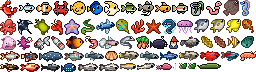
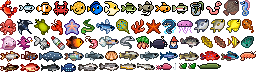
Turn upside-down fish sprites upright
The diagonal Moranovo icons face up-left, so rotating them to face right
left 15 species belly-up. Flip them back after the rotation, and mirror
Red-cap Oranda so it swims head first like the rest.

Claude-Session: https://claude.ai/code/session_0139brXZk66GQKn6vRGacqra

diff --git a/js/atlas.js b/js/atlas.js
@@ -2,5 +2,5 @@
 // The PNG is embedded so the game also runs from file:// without a tainted canvas.
 (function (root) { const A = {"redcrab":[0,0,18,18],"anchovy":[19,0,16,16],"clownfish":[36,0,16,16],"crab":[53,0,16,16],"pufferfish":[70,0,16,16],"surgeonfish":[87,0,16,16],"angelfish":[104,0,16,16],"bass":[121,0,16,16],"catfish":[138,0,16,16],"goldfish":[155,0,16,16],"rainbow_trout":[172,0,16,16],"rusty_can":[189,0,16,16],"worm":[206,0,16,16],"mo_turbot":[223,0,16,16],"mo_seahorse":[240,0,10,16],"mo_octopus":[0,19,16,16],"mo_manta":[17,19,16,16],"mo_turtle":[34,19,16,16],"mo_lobster":[51,19,12,16],"mo_vstar":[64,19,16,16],"mo_snake":[81,19,14,16],"mo_flying":[96,19,19,15],"mo_stingray":[116,19,14,15],"mo_coral":[131,19,14,15],"mo_rstar":[146,19,15,15],"mo_eeel":[162,19,14,15],"jellyfish":[177,19,16,15],"mo_pomfret":[194,19,15,14],"mo_gpomfret":[210,19,15,14],"mo_ytang":[226,19,15,14],"mo_ray":[242,19,12,14],"mo_blob":[0,36,16,14],"mo_angler":[17,36,16,14],"mo_oranda":[34,36,16,14],"mo_bottle":[51,36,14,14],"koi":[66,36,18,13],"mo_prawn":[85,36,13,13],"mo_guppy":[99,36,20,13],"mo_hairtail":[120,36,15,13],"mo_hermit":[136,36,13,13],"angler":[150,36,18,13],"gnome":[169,36,10,13],"mo_tilapia":[180,36,20,12],"mo_cucumber":[201,36,12,12],"mo_bcucumber":[214,36,12,12],"mo_batfish":[227,36,13,12],"mo_abalone":[241,36,13,12],"whitefish":[0,51,20,11],"mo_sunfish":[21,51,17,11],"coelacanth":[39,51,24,11],"rainbowfish":[64,51,20,10],"sardine":[85,51,19,10],"scallop":[105,51,13,10],"striped":[119,51,20,10],"mo_stickleback":[140,51,19,10],"mo_tuna":[160,51,18,10],"mo_cod":[179,51,20,10],"mo_grouper":[200,51,20,10],"mo_tetra":[221,51,18,10],"shrimp":[240,51,16,10],"mo_minnow":[0,63,19,9],"mo_snapper":[20,63,20,9],"mo_mackerel":[41,63,19,9],"lanternfish":[61,63,16,9],"silverfish":[78,63,20,8],"mo_salmon":[99,63,20,8],"mo_croaker":[120,63,16,7],"mo_saury":[137,63,18,7],"squid":[156,63,16,7],"hook":[173,63,5,7],"kelp":[179,63,8,6],"mo_snail":[188,63,8,6],"eel":[197,63,24,6]};
   if (typeof module !== 'undefined') module.exports = A;
[2 lines of base64/hex data omitted]
 })(this);

diff --git a/tools/build_atlas.py b/tools/build_atlas.py
@@ -42,12 +42,13 @@ MO_ICONS = {
   'mo_seahorse': (39, 'keep'), 'mo_cucumber': (41, 'keep'), 'mo_bcucumber': (42, 'keep'), 'mo_octopus': (43, 'keep'), 'mo_batfish': (44, 'flip'),
   'mo_stingray': (47, 'keep'), 'mo_ray': (48, 'keep'), 'mo_manta': (49, 'keep'), 'mo_abalone': (57, 'keep'), 'mo_turtle': (58, 'keep'),
   'mo_coral': (59, 'keep'), 'mo_lobster': (62, 'keep'), 'mo_hermit': (63, 'keep'), 'mo_vstar': (64, 'keep'), 'mo_rstar': (65, 'keep'),
-  'mo_blob': (70, 'flip'), 'mo_angler': (71, 'flip'), 'mo_eeel': (72, 'keep'), 'mo_snake': (73, 'keep'), 'mo_oranda': (75, 'keep'),
+  'mo_blob': (70, 'flip'), 'mo_angler': (71, 'flip'), 'mo_eeel': (72, 'keep'), 'mo_snake': (73, 'keep'), 'mo_oranda': (75, 'flip'),
   'mo_bottle': (77, 'keep'),
 }
 for n, (i, mode) in MO_ICONS.items():
     c = MO.crop(((i % 10) * 16, (i // 10) * 16, (i % 10) * 16 + 16, (i // 10) * 16 + 16))
-    if mode == 'rot': c = rotsprite(c, -135)
+    # the diagonal icons face up-left, so turning them leaves the belly up: flip back upright
+    if mode == 'rot': c = rotsprite(c, -135).transpose(Image.FLIP_TOP_BOTTOM)
     elif mode == 'flip': c = c.transpose(Image.FLIP_LEFT_RIGHT)
     sprites[n] = c.crop(c.getbbox())
 
